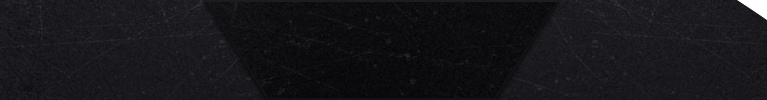
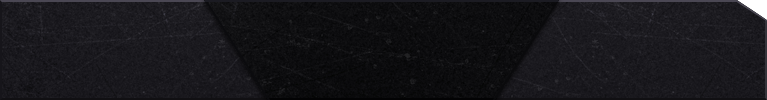
navbar + footer
bckg texture navbar+footer en standard et small

Changed region(s): [[0.9896, 0.15, 1.0, 0.99], [0.7197, 0.0, 0.9896, 0.15], [0.0, 0.0, 0.2699, 0.03]]

diff --git a/client/views/common/layouts/layout1.css b/client/views/common/layouts/layout1.css
@@ -644,23 +644,29 @@ input:active, textarea:active, select:active, input:focus, textarea:focus, selec
 	}
 
 	.navbar {
-		min-height: 101px;
+		max-height: 100px;
 		margin: 0;
-		padding: 0 50px;
+		padding: 0 20px;
 		background-image: url('./img/bckg_nav_small.png');
 		background-repeat: no-repeat;
 		background-color: transparent;
 		border-radius: 0;
 		border: 0;
 	}
+		.navbar .dropdown-toggle, .navbar #menu {
+			padding-left: 0;
+			padding-bottom: 0;
+		}
 
 	.connectionBox {
-		display: none;
+		min-width: 100px;
+		padding: 10px;
+		margin-left: 5px;
+		font-size: 0.83em;
 	}
 
 	.logoBox {
-		position: relative;
-		left: 195px;
+		
 	}
 
 	footer {

diff --git a/client/views/pages/matchmaking.css b/client/views/pages/matchmaking.css
@@ -81,6 +81,10 @@
 	position: relative;
 	bottom: -22px;
 	}
+	.matchmakingFieldset .separator {
+	max-width: 100%;
+	overflow: hidden;
+}
 }
 
 #instructionsDiv {
